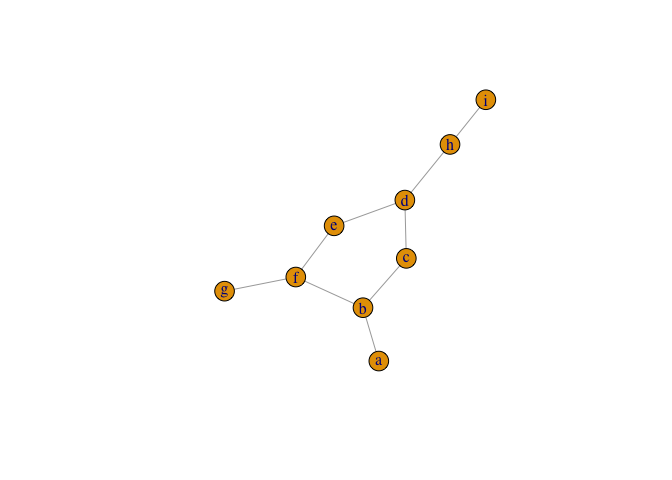
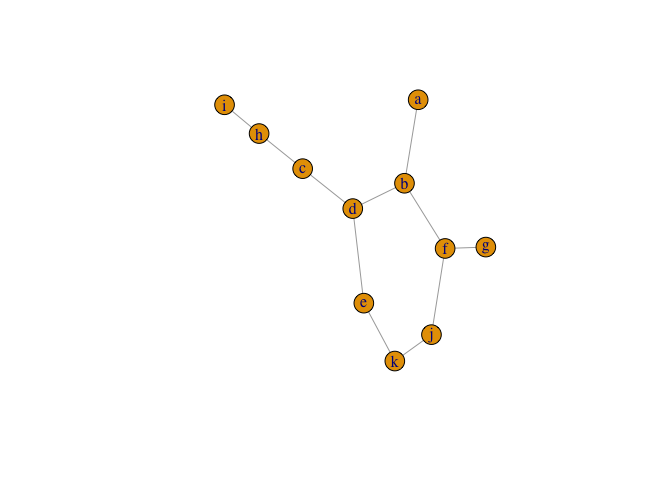
include examples of more complex nodes to be removed

diff --git a/README.md b/README.md
@@ -25,17 +25,19 @@ set.seed(100)
 library(igraph)
 library(simplygraph)
 
-graph <- graph_from_edgelist(
+graph <- igraph::graph_from_edgelist(
   matrix(c(
     "a", "b",
     "b", "f",
-    "b", "c",
-    "c", "d",
+    "b", "d",
+    "d", "c",
     "d", "e",
-    "e", "f",
+    "e", "k",
+    "j", "k",
     "f", "g",
-    "d", "h",
-    "h", "i"
+    "c", "h",
+    "h", "i",
+    "f", "j"
   ), ncol = 2, byrow = TRUE),
   directed = FALSE
 )
@@ -45,8 +47,8 @@ plot(graph)
 
 <img src="man/figures/README-build-1.png" width="100%" />
 
-Nodes `e`, `c`, and `h` could be removed without fundamentally altering
-the relationship of path intersections in this graph.
+Nodes `j`, `k`, `e`, `c`, and `h` could be removed without fundamentally
+altering the relationship of path intersections in this graph.
 `simplify_topology()` finds those 2-degree nodes and removes them,
 rewiring the remaining tangent nodes.
 
